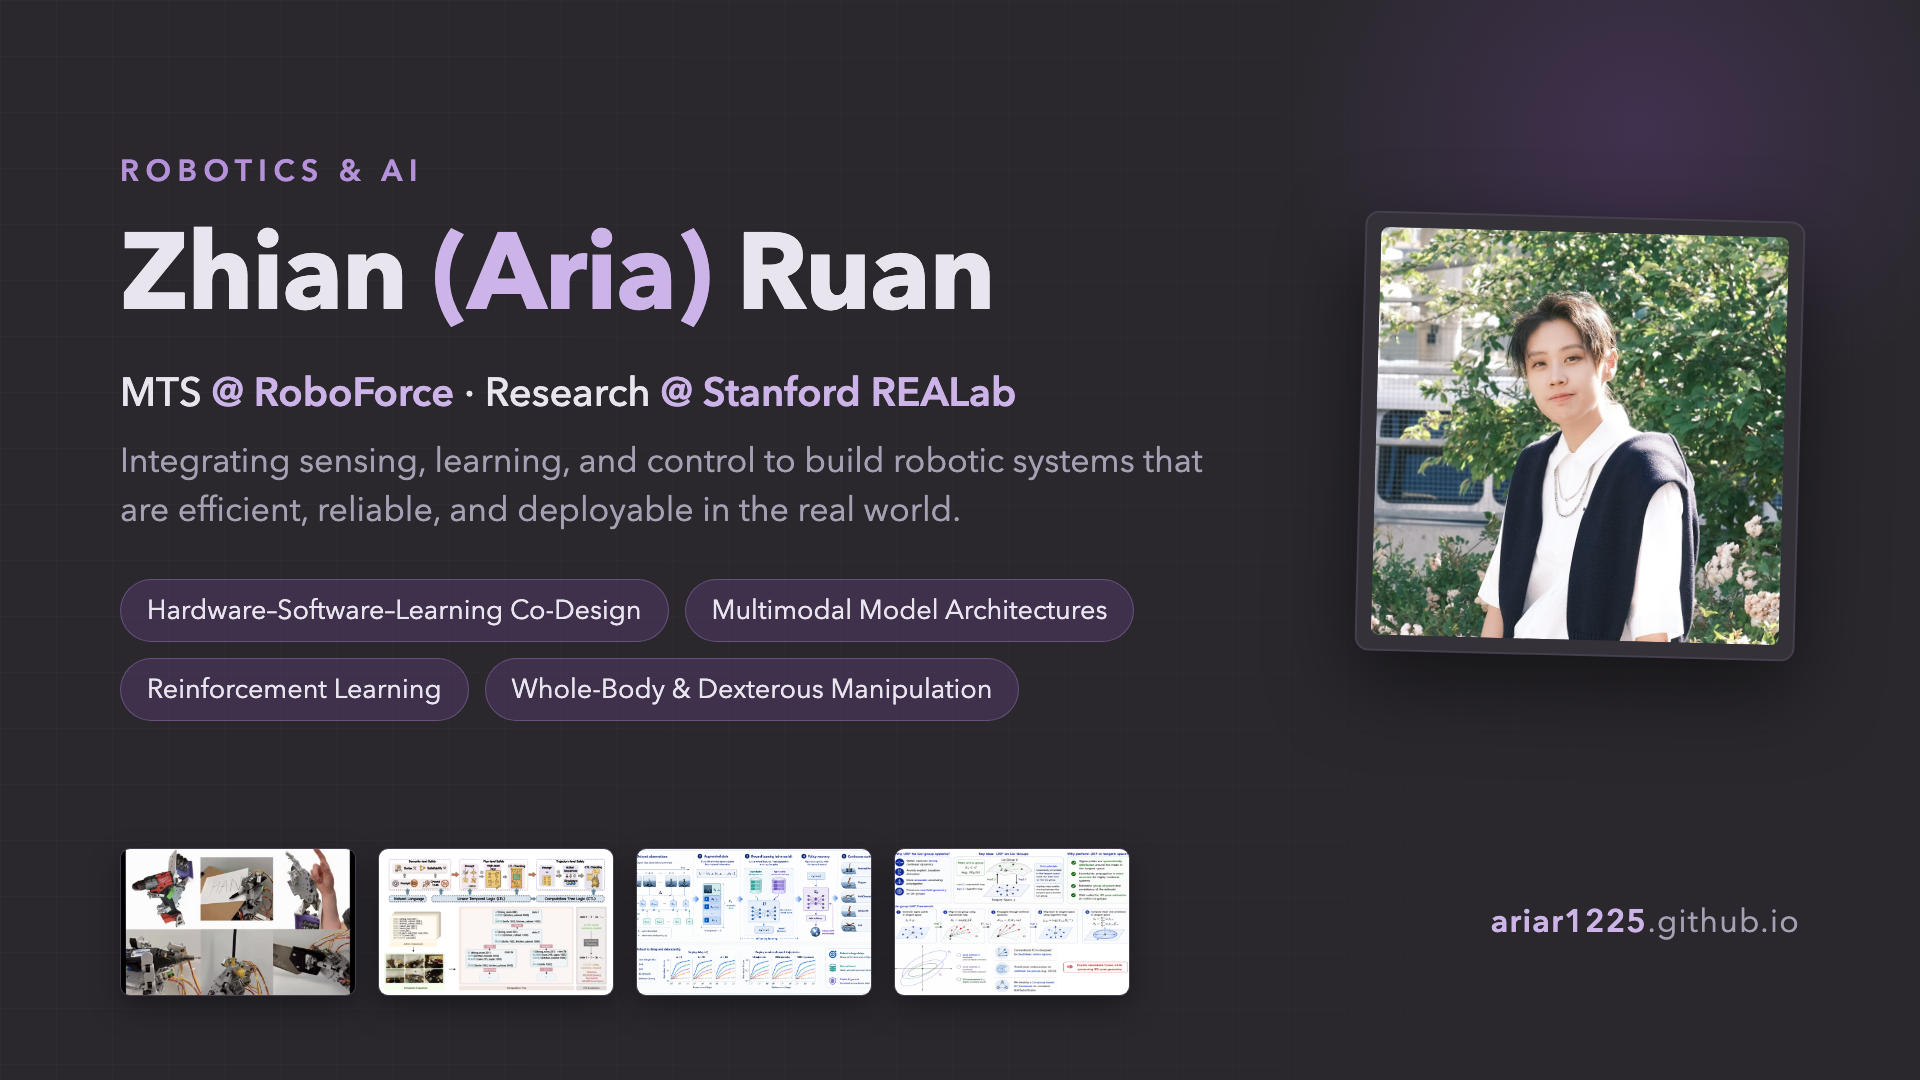
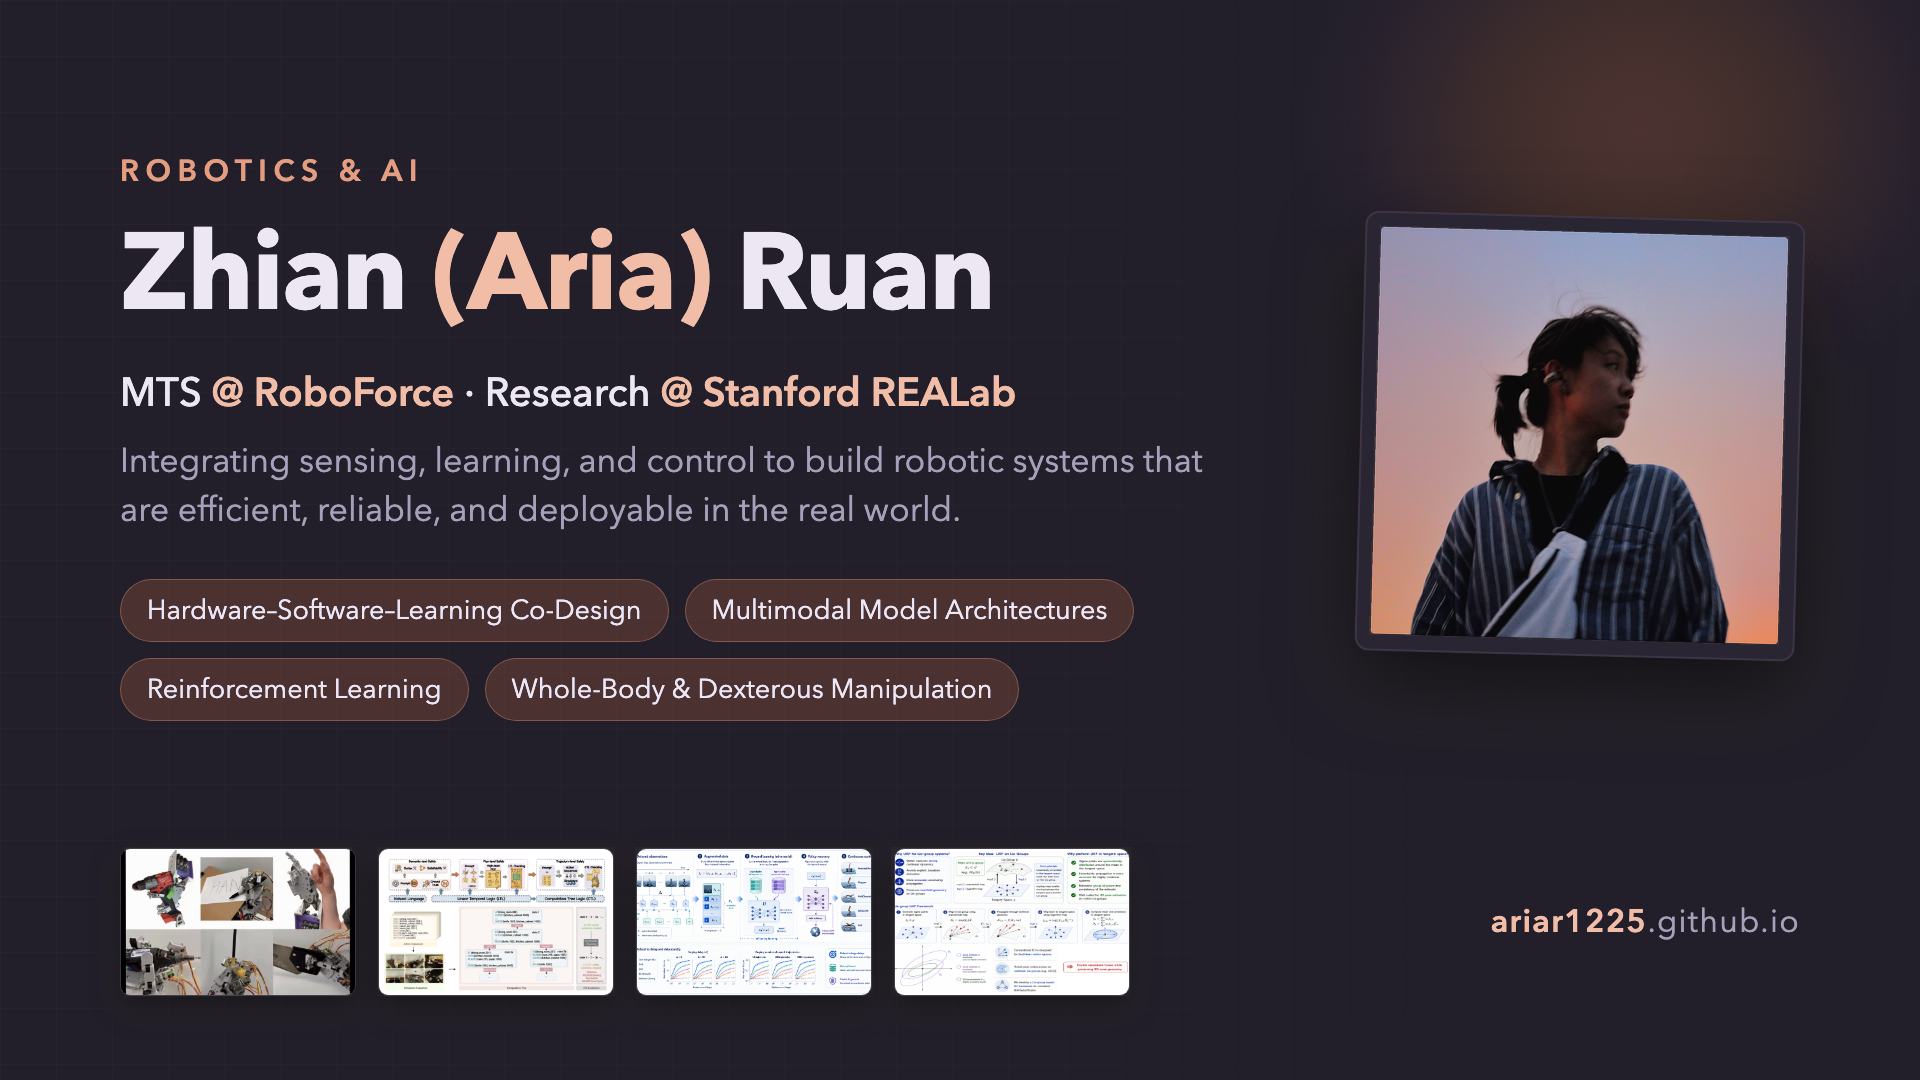
New portrait, sunset palette derived from it, fix LinkedIn URL
Avatar
- Replace avatar.jpg with a square crop of the new sunset portrait
  (1600x1600, 1.09 MB -> 312 KB), with a highlight-preserving shadow
  lift (gain = 1 + 0.75*(1-L)^2) so the backlit subject reads clearly
  without washing out the sky.

Teaser
- Warp the same crop into the social card's portrait quad, measured by
  edge-fitting against the flat frame colour: a 407.7px square tilted
  1.52 deg with a ~4.5px corner radius.
- Recolour the card to the new palette. Every colour in it was an exact
  CSS token value, so each pixel is decomposed into a blend of two
  palette entries plus a residual and re-blended with the new tokens
  (RMS residual 0.30/255). Portrait and project thumbnails are masked
  out. Soft-min weighting keeps the mapping continuous so the card
  shadows stay smooth.

Theme
- Both token blocks re-derived from the photo: dusk-violet ground from
  the silhouette (#0f0d12 -> #201d29), apricot/terracotta accent from
  the horizon glow (#b26f59 -> #e59d80 dark, #ad5a3a light).
- Fixes a contrast failure: the old light accent #e699b9 on white was
  2.2:1, below WCAG AA for link text. Now 4.7:1; dark 5.6:1 -> 7.5:1.

Links and cache
- LinkedIn vanity URL zhian-ruan-... returned 404; update to
  aria-ruan-... in the profile row, footer and JSON-LD sameAs.
- Project pages were pinned to styles.css?v=12 while index was on v=13,
  so they would have served a stale palette; all now on v=14.
- Bump avatar to v3 and add ?v=2 to the OG/Twitter teaser URLs to force
[…]

diff --git a/styles.css b/styles.css
@@ -1,58 +1,57 @@
-/* Dark theme (default) — dark grey + lavender purple */
+/* Dark theme (default) — dusk violet + apricot, sampled from the portrait */
 :root {
-  --background: #2a282d;
-  --background-soft: #3b3642;
-  --surface: #343139;
-  --foreground: #e9e5ef;
-  --muted: #a79fb3;
-  --border: #453f4e;
-  --border-strong: #6b6277;
-  --accent: #b491d9;
-  --accent-strong: #cdb4e8;
-  --accent-soft: rgba(123, 74, 168, 0.3);
-  --link-underline: rgba(180, 145, 217, 0.55);
-  --grid-line: rgba(233, 229, 239, 0.035);
-  --overlay: linear-gradient(90deg, rgba(42, 40, 45, 0.86), rgba(42, 40, 45, 0.96));
-  --card-hover: rgba(123, 74, 168, 0.14);
+  --background: #201d29;
+  --background-soft: #2f2a3c;
+  --surface: #282333;
+  --foreground: #ece7f3;
+  --muted: #a89fbb;
+  --border: #3a3348;
+  --border-strong: #5d5474;
+  --accent: #e59d80;
+  --accent-strong: #f2bda6;
+  --accent-soft: rgba(186, 104, 74, 0.3);
+  --link-underline: rgba(229, 157, 128, 0.55);
+  --grid-line: rgba(236, 231, 243, 0.035);
+  --overlay: linear-gradient(90deg, rgba(32, 29, 41, 0.86), rgba(32, 29, 41, 0.96));
+  --card-hover: rgba(186, 104, 74, 0.14);
   --card-soft: rgba(255, 255, 255, 0.04);
-  --card-soft-hover: rgba(123, 74, 168, 0.18);
-  --pill-border: rgba(180, 145, 217, 0.35);
-  --pill-bg: rgba(123, 74, 168, 0.26);
+  --card-soft-hover: rgba(186, 104, 74, 0.18);
+  --pill-border: rgba(229, 157, 128, 0.32);
+  --pill-bg: rgba(186, 104, 74, 0.22);
   --chip-bg: rgba(255, 255, 255, 0.06);
   --panel: rgba(255, 255, 255, 0.045);
-  --logo-chip: #f2f0f5;
-  --shadow-color: rgba(0, 0, 0, 0.45);
+  --logo-chip: #f3f0f6;
+  --shadow-color: rgba(0, 0, 0, 0.5);
   --shadow: 0 16px 44px var(--shadow-color);
-  --portrait-shadow: 0 14px 34px rgba(0, 0, 0, 0.4);
+  --portrait-shadow: 0 14px 34px rgba(0, 0, 0, 0.45);
   color-scheme: dark;
 }
-
-/* Light theme — white + pink (#FFFFFF / #E699B9) */
+/* Light theme — warm white + terracotta (#FFFAF6 / #AD5A3A) */
 :root[data-theme="light"] {
-  --background: #ffffff;
-  --background-soft: #f9e7f0;
-  --surface: #fffcfe;
-  --foreground: #373737;
-  --muted: #857581;
-  --border: #eddce6;
-  --border-strong: #373737;
-  --accent: #e699b9;
-  --accent-strong: #b25c82;
-  --accent-soft: #f7dce8;
-  --link-underline: rgba(230, 153, 185, 0.7);
-  --grid-line: rgba(178, 92, 130, 0.05);
-  --overlay: linear-gradient(90deg, rgba(255, 255, 255, 0.86), rgba(255, 255, 255, 0.96));
-  --card-hover: rgba(247, 220, 232, 0.4);
-  --card-soft: rgba(247, 220, 232, 0.22);
-  --card-soft-hover: rgba(247, 220, 232, 0.5);
-  --pill-border: rgba(178, 92, 130, 0.3);
-  --pill-bg: rgba(247, 220, 232, 0.75);
-  --chip-bg: rgba(247, 220, 232, 0.3);
-  --panel: rgba(247, 220, 232, 0.22);
+  --background: #fffaf6;
+  --background-soft: #fbe9dd;
+  --surface: #fffdfa;
+  --foreground: #34292b;
+  --muted: #8a7369;
+  --border: #f1ded1;
+  --border-strong: #34292b;
+  --accent: #ad5a3a;
+  --accent-strong: #96482f;
+  --accent-soft: #fbe4d6;
+  --link-underline: rgba(173, 90, 58, 0.65);
+  --grid-line: rgba(150, 72, 47, 0.05);
+  --overlay: linear-gradient(90deg, rgba(255, 250, 246, 0.86), rgba(255, 250, 246, 0.96));
+  --card-hover: rgba(251, 228, 214, 0.45);
+  --card-soft: rgba(251, 228, 214, 0.25);
+  --card-soft-hover: rgba(251, 228, 214, 0.55);
+  --pill-border: rgba(150, 72, 47, 0.28);
+  --pill-bg: rgba(251, 228, 214, 0.8);
+  --chip-bg: rgba(251, 228, 214, 0.35);
+  --panel: rgba(251, 228, 214, 0.25);
   --logo-chip: #ffffff;
-  --shadow-color: rgba(178, 92, 130, 0.14);
+  --shadow-color: rgba(150, 72, 47, 0.14);
   --shadow: 0 16px 44px var(--shadow-color);
-  --portrait-shadow: 0 14px 34px rgba(178, 92, 130, 0.12);
+  --portrait-shadow: 0 14px 34px rgba(150, 72, 47, 0.12);
   color-scheme: light;
 }
 

diff --git a/index.html b/index.html
@@ -10,7 +10,7 @@
     <meta property="og:title" content="Zhian (Aria) Ruan">
     <meta property="og:description" content="MTS @ RoboForce | Research @ Stanford REALab">
     <meta property="og:url" content="https://ariar1225.github.io/">
-    <meta property="og:image" content="https://ariar1225.github.io/images/teaser.png">
+    <meta property="og:image" content="https://ariar1225.github.io/images/teaser.png?v=2">
     <meta property="og:image:width" content="1920">
     <meta property="og:image:height" content="1080">
     <meta property="og:image:alt" content="Overview card for Zhian (Aria) Ruan's website: robot learning, reinforcement learning, and dexterous manipulation.">
@@ -18,7 +18,7 @@
     <meta name="twitter:card" content="summary_large_image">
     <meta name="twitter:title" content="Zhian (Aria) Ruan">
     <meta name="twitter:description" content="MTS @ RoboForce | Research @ Stanford REALab">
-    <meta name="twitter:image" content="https://ariar1225.github.io/images/teaser.png">
+    <meta name="twitter:image" content="https://ariar1225.github.io/images/teaser.png?v=2">
     <script type="application/ld+json">
     {
       "@context": "https://schema.org",
@@ -56,7 +56,7 @@
       "knowsAbout": ["Robotics", "Robot Learning", "Reinforcement Learning", "Dexterous Manipulation", "Multimodal Models"],
       "sameAs": [
         "https://github.com/ariaR1225",
-        "https://www.linkedin.com/in/zhian-ruan-11055a201/",
+        "https://www.linkedin.com/in/aria-ruan-11055a201/",
         "https://scholar.google.com/citations?user=6YvvQAkAAAAJ&hl=en"
       ]
     }
@@ -65,7 +65,7 @@
     <link rel="icon" type="image/png" sizes="32x32" href="images/favicon-32x32.png">
     <link rel="icon" type="image/png" sizes="16x16" href="images/favicon-16x16.png">
     <script>try{const t=localStorage.getItem("aria-theme");if(t)document.documentElement.dataset.theme=t}catch(e){}</script>
-    <link rel="stylesheet" href="styles.css?v=13">
+    <link rel="stylesheet" href="styles.css?v=14">
   </head>
   <body>
     <div class="page">
@@ -113,12 +113,12 @@
             <div class="link-row" aria-label="Profile links">
               <a href="mailto:ariaruan@stanford.edu">Email</a>
               <a href="https://github.com/ariaR1225">GitHub</a>
-              <a href="https://www.linkedin.com/in/zhian-ruan-11055a201/">LinkedIn</a>
+              <a href="https://www.linkedin.com/in/aria-ruan-11055a201/">LinkedIn</a>
               <a href="https://scholar.google.com/citations?user=6YvvQAkAAAAJ&amp;hl=en">Google Scholar</a>
             </div>
           </div>
           <figure class="portrait">
-            <img src="images/avatar.jpg?v=2" alt="Portrait of Zhian (Aria) Ruan">
+            <img src="images/avatar.jpg?v=3" alt="Portrait of Zhian (Aria) Ruan">
           </figure>
         </section>
 
@@ -443,7 +443,7 @@
         <div class="footer-links">
           <a href="mailto:ariaruan@stanford.edu">Email</a>
           <a href="https://github.com/ariaR1225">GitHub</a>
-          <a href="https://www.linkedin.com/in/zhian-ruan-11055a201/">LinkedIn</a>
+          <a href="https://www.linkedin.com/in/aria-ruan-11055a201/">LinkedIn</a>
           <a href="https://scholar.google.com/citations?user=6YvvQAkAAAAJ&amp;hl=en">Google Scholar</a>
         </div>
       </footer>

diff --git a/projects/exoskeleton-transparency.html b/projects/exoskeleton-transparency.html
@@ -7,7 +7,7 @@
     <meta name="description" content="Transparent haptic rendering on a lower-limb exoskeleton with near-zero interaction force and less than 10 ms delay.">
     <link rel="icon" type="image/png" sizes="32x32" href="../images/favicon-32x32.png">
     <script>try{const t=localStorage.getItem("aria-theme");if(t)document.documentElement.dataset.theme=t}catch(e){}</script>
-    <link rel="stylesheet" href="../styles.css?v=12">
+    <link rel="stylesheet" href="../styles.css?v=14">
   </head>
   <body class="project-page">
     <div class="page">

diff --git a/projects/vision-pro-simulator.html b/projects/vision-pro-simulator.html
@@ -7,7 +7,7 @@
     <meta name="description" content="Real-time gesture-controlled photo manipulation with custom MLP and LSTM models, trained in under 90 seconds on CPU.">
     <link rel="icon" type="image/png" sizes="32x32" href="../images/favicon-32x32.png">
     <script>try{const t=localStorage.getItem("aria-theme");if(t)document.documentElement.dataset.theme=t}catch(e){}</script>
-    <link rel="stylesheet" href="../styles.css?v=12">
+    <link rel="stylesheet" href="../styles.css?v=14">
   </head>
   <body class="project-page">
     <div class="page">

diff --git a/projects/dexterous-hand.html b/projects/dexterous-hand.html
@@ -7,7 +7,7 @@
     <meta name="description" content="An 8-DOF robotic hand with SEA force sensing, custom BLDC motor drivers, and ROS 2 hand-tracking teleoperation.">
     <link rel="icon" type="image/png" sizes="32x32" href="../images/favicon-32x32.png">
     <script>try{const t=localStorage.getItem("aria-theme");if(t)document.documentElement.dataset.theme=t}catch(e){}</script>
-    <link rel="stylesheet" href="../styles.css?v=12">
+    <link rel="stylesheet" href="../styles.css?v=14">
   </head>
   <body class="project-page">
     <div class="page">

diff --git a/projects/kuka-youbot.html b/projects/kuka-youbot.html
@@ -7,7 +7,7 @@
     <meta name="description" content="Mobile manipulation with screw-theory trajectory generation and PI feedback control for the KUKA youBot.">
     <link rel="icon" type="image/png" sizes="32x32" href="../images/favicon-32x32.png">
     <script>try{const t=localStorage.getItem("aria-theme");if(t)document.documentElement.dataset.theme=t}catch(e){}</script>
-    <link rel="stylesheet" href="../styles.css?v=12">
+    <link rel="stylesheet" href="../styles.css?v=14">
   </head>
   <body class="project-page">
     <div class="page">

diff --git a/projects/vehicle-pnc.html b/projects/vehicle-pnc.html
@@ -7,7 +7,7 @@
     <meta name="description" content="Overtaking, crosswalk, and parking maneuvers from a dynamics-based planner and controller.">
     <link rel="icon" type="image/png" sizes="32x32" href="../images/favicon-32x32.png">
     <script>try{const t=localStorage.getItem("aria-theme");if(t)document.documentElement.dataset.theme=t}catch(e){}</script>
-    <link rel="stylesheet" href="../styles.css?v=12">
+    <link rel="stylesheet" href="../styles.css?v=14">
   </head>
   <body class="project-page">
     <div class="page">

diff --git a/projects/search-visualization.html b/projects/search-visualization.html
@@ -7,7 +7,7 @@
     <meta name="description" content="An interactive C++ visualizer for A*, Dijkstra, and BFS over multiple distance metrics.">
     <link rel="icon" type="image/png" sizes="32x32" href="../images/favicon-32x32.png">
     <script>try{const t=localStorage.getItem("aria-theme");if(t)document.documentElement.dataset.theme=t}catch(e){}</script>
-    <link rel="stylesheet" href="../styles.css?v=12">
+    <link rel="stylesheet" href="../styles.css?v=14">
   </head>
   <body class="project-page">
     <div class="page">

diff --git a/projects/2r-impact.html b/projects/2r-impact.html
@@ -7,7 +7,7 @@
     <meta name="description" content="Lagrangian mechanics of elastic impact with RK4 integration and gravity compensation.">
     <link rel="icon" type="image/png" sizes="32x32" href="../images/favicon-32x32.png">
     <script>try{const t=localStorage.getItem("aria-theme");if(t)document.documentElement.dataset.theme=t}catch(e){}</script>
-    <link rel="stylesheet" href="../styles.css?v=12">
+    <link rel="stylesheet" href="../styles.css?v=14">
   </head>
   <body class="project-page">
     <div class="page">

diff --git a/projects/exploding-kittens.html b/projects/exploding-kittens.html
@@ -7,7 +7,7 @@
     <meta name="description" content="A test-driven multiplayer card game with 100% coverage and a hardened CI/CD pipeline.">
     <link rel="icon" type="image/png" sizes="32x32" href="../images/favicon-32x32.png">
     <script>try{const t=localStorage.getItem("aria-theme");if(t)document.documentElement.dataset.theme=t}catch(e){}</script>
-    <link rel="stylesheet" href="../styles.css?v=12">
+    <link rel="stylesheet" href="../styles.css?v=14">
   </head>
   <body class="project-page">
     <div class="page">

diff --git a/projects/line-following-robot.html b/projects/line-following-robot.html
@@ -7,7 +7,7 @@
     <meta name="description" content="A 4 m/s embedded line follower with PID control and a Wi-Fi command link.">
     <link rel="icon" type="image/png" sizes="32x32" href="../images/favicon-32x32.png">
     <script>try{const t=localStorage.getItem("aria-theme");if(t)document.documentElement.dataset.theme=t}catch(e){}</script>
-    <link rel="stylesheet" href="../styles.css?v=12">
+    <link rel="stylesheet" href="../styles.css?v=14">
   </head>
   <body class="project-page">
     <div class="page">
